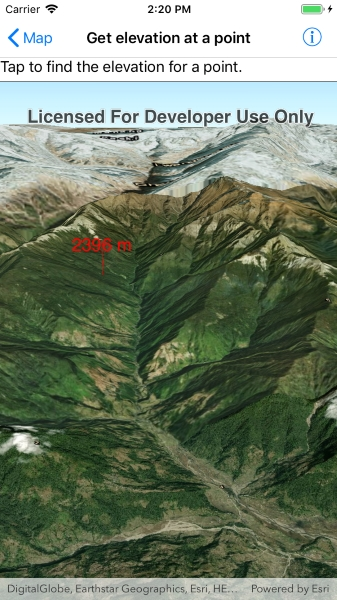
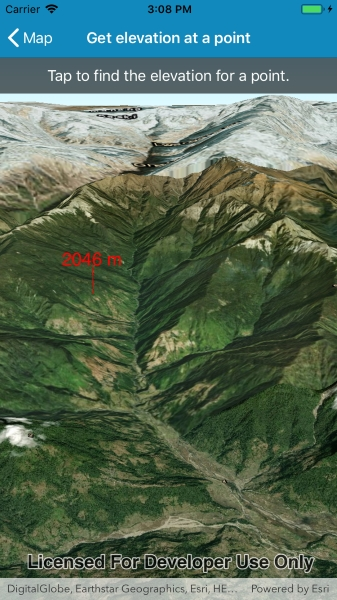
Fixed faulty UI in iOS and retook screenshot

diff --git a/src/iOS/Xamarin.iOS/Samples/Map/GetElevationAtAPoint/GetElevationAtAPoint.cs b/src/iOS/Xamarin.iOS/Samples/Map/GetElevationAtAPoint/GetElevationAtAPoint.cs
@@ -3,18 +3,18 @@
 // Licensed under the Apache License, Version 2.0 (the "License"); you may not use this file except in compliance with the License.
 // You may obtain a copy of the License at: http://www.apache.org/licenses/LICENSE-2.0
 //
-// Unless required by applicable law or agreed to in writing, software distributed under the License is distributed on an 
-// "AS IS" BASIS, WITHOUT WARRANTIES OR CONDITIONS OF ANY KIND, either express or implied. See the License for the specific 
+// Unless required by applicable law or agreed to in writing, software distributed under the License is distributed on an
+// "AS IS" BASIS, WITHOUT WARRANTIES OR CONDITIONS OF ANY KIND, either express or implied. See the License for the specific
 // language governing permissions and limitations under the License.
 
 using Esri.ArcGISRuntime.Geometry;
 using Esri.ArcGISRuntime.Mapping;
 using Esri.ArcGISRuntime.Symbology;
 using Esri.ArcGISRuntime.UI;
-using System;
-using System.Drawing;
 using Esri.ArcGISRuntime.UI.Controls;
 using Foundation;
+using System;
+using System.Drawing;
 using UIKit;
 
 namespace ArcGISRuntimeXamarin.Samples.GetElevationAtAPoint
@@ -101,30 +101,34 @@ namespace ArcGISRuntimeXamarin.Samples.GetElevationAtAPoint
             UILabel helpLabel = new UILabel
             {
                 Text = "Tap to find the elevation for a point.",
-                AdjustsFontSizeToFitWidth = true,
-                TextAlignment = UITextAlignment.Center,
-                BackgroundColor = UIColor.FromWhiteAlpha(0, .6f),
+                BackgroundColor = UIColor.FromWhiteAlpha(0f, .6f),
                 TextColor = UIColor.White,
-                Lines = 1,
+                TextAlignment = UITextAlignment.Center,
                 TranslatesAutoresizingMaskIntoConstraints = false
             };
 
             // Add the views.
-            View.AddSubviews(_mySceneView);
+            View.AddSubviews(_mySceneView, helpLabel);
 
             // Lay out the views.
-            NSLayoutConstraint.ActivateConstraints(new []{
+            NSLayoutConstraint.ActivateConstraints(new[]{
                 _mySceneView.TopAnchor.ConstraintEqualTo(View.SafeAreaLayoutGuide.TopAnchor),
                 _mySceneView.BottomAnchor.ConstraintEqualTo(View.BottomAnchor),
                 _mySceneView.LeadingAnchor.ConstraintEqualTo(View.LeadingAnchor),
-                _mySceneView.TrailingAnchor.ConstraintEqualTo(View.TrailingAnchor)
-            });            
+                _mySceneView.TrailingAnchor.ConstraintEqualTo(View.TrailingAnchor),
+
+                helpLabel.TopAnchor.ConstraintEqualTo(View.SafeAreaLayoutGuide.TopAnchor),
+                helpLabel.LeadingAnchor.ConstraintEqualTo(View.LeadingAnchor),
+                helpLabel.TrailingAnchor.ConstraintEqualTo(View.TrailingAnchor),
+                helpLabel.HeightAnchor.ConstraintEqualTo(40)
+            });
         }
 
         public override void ViewDidLoad()
         {
             base.ViewDidLoad();
             Initialize();
+
             // Handle taps on the scene view for getting elevation.
             _mySceneView.GeoViewTapped += SceneViewTapped;
         }
